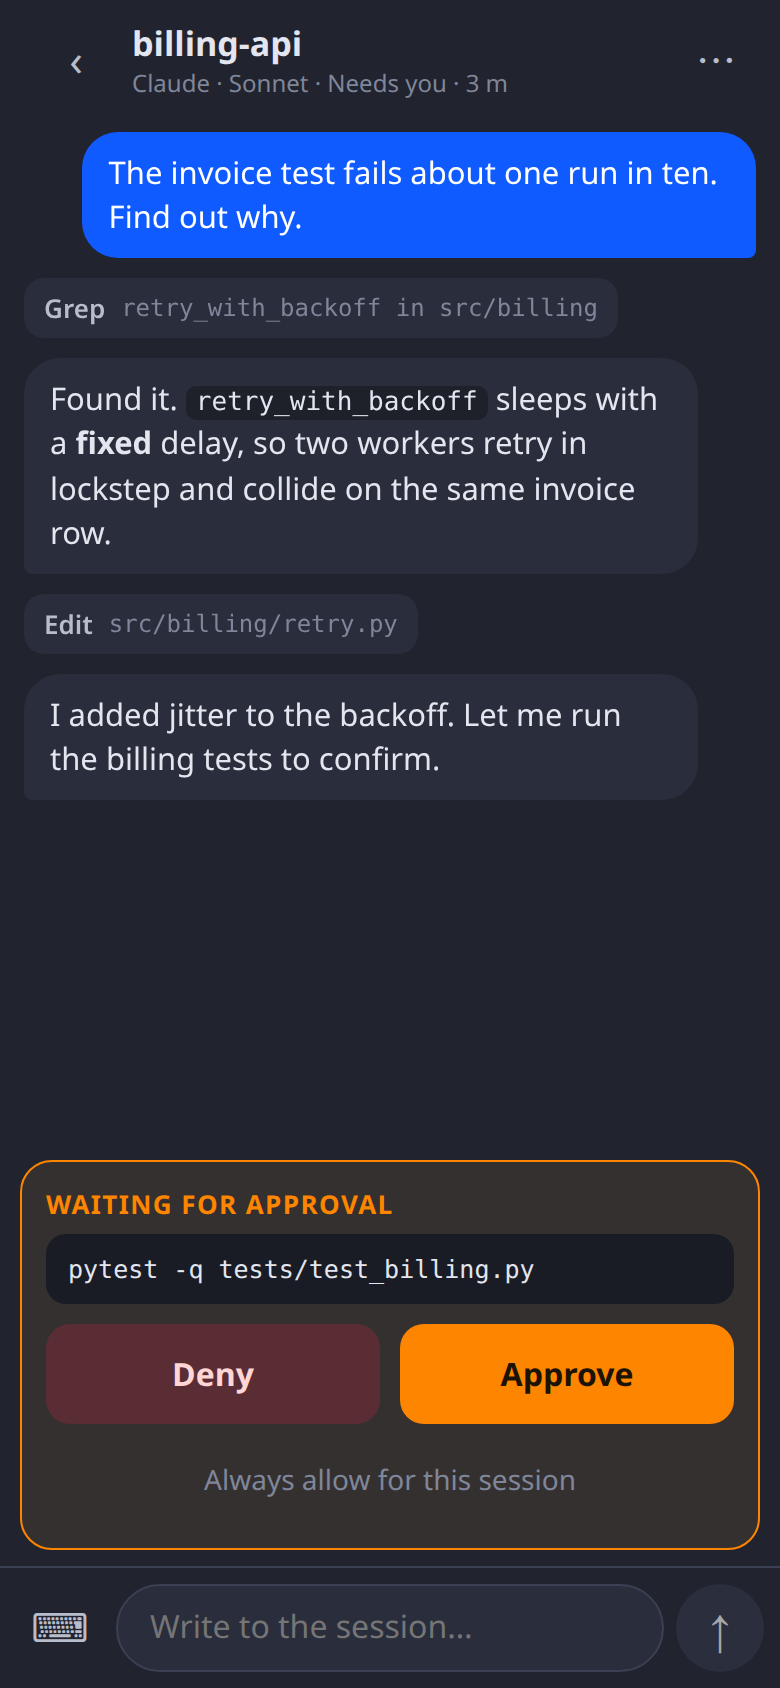
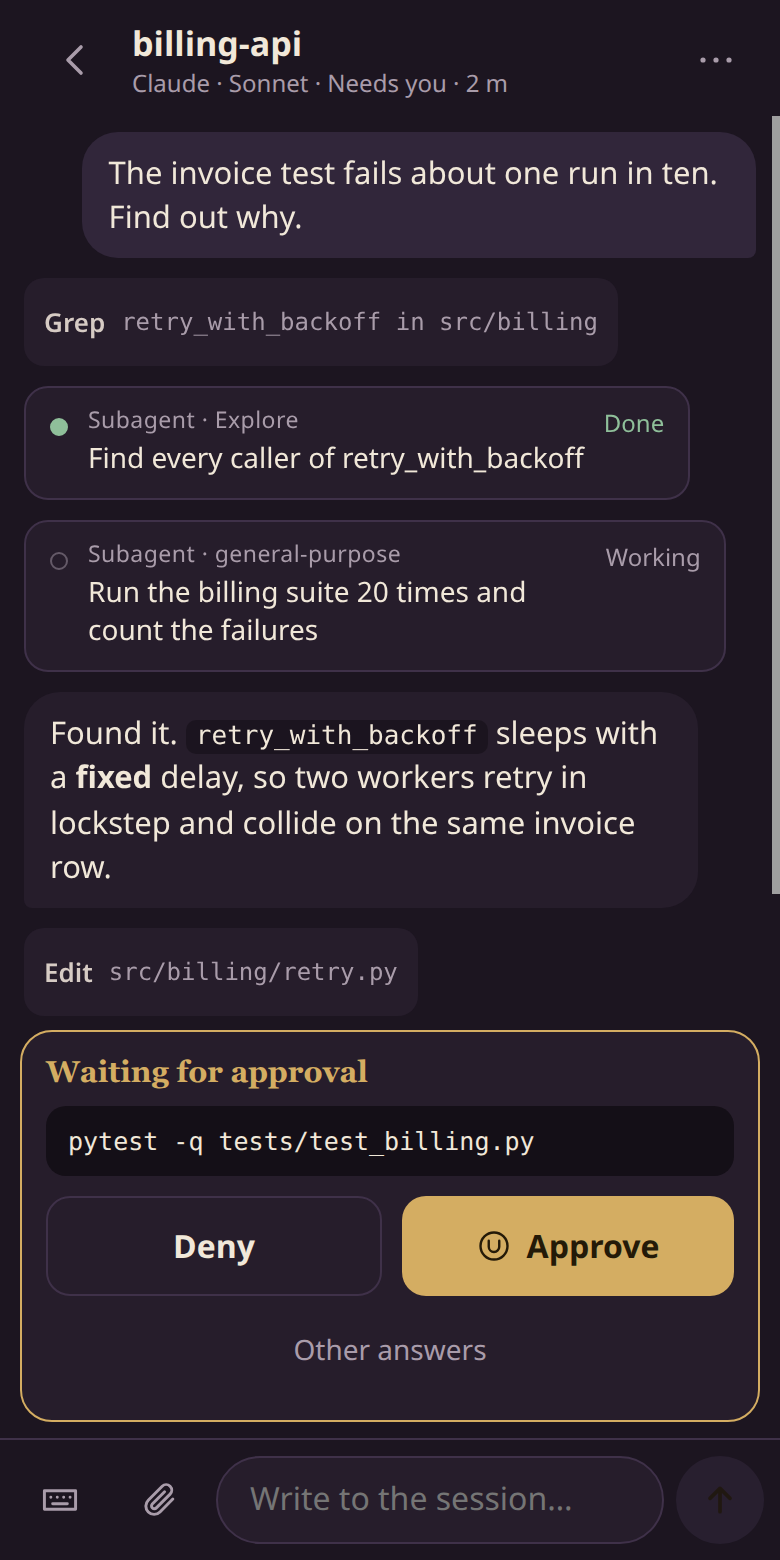
Retake the screenshots and the demo GIF in the new look

diff --git a/tools/shots.py b/tools/shots.py
@@ -1,0 +1,188 @@
+"""Retake the README screenshots and the demo GIF from the scripted demo.
+
+    python tools/shots.py            # docs/screenshots/{en,tr}/*.png and docs/demo.gif
+
+Needs Chrome or Chromium, the dev requirements, and ffmpeg for the GIF.
+"""
+import base64
+import json
+import shutil
+import subprocess
+import sys
+import tempfile
+import threading
+import time
+from functools import partial
+from http.server import SimpleHTTPRequestHandler, ThreadingHTTPServer
+from pathlib import Path
+
+ROOT = Path(__file__).resolve().parent.parent
+sys.path.insert(0, str(ROOT))
+
+from test_web import APPROVE, open_chrome  # noqa: E402
+from tools import demo_server as demo  # noqa: E402
+
+DOCS = ROOT / "docs"
+WIDTH, HEIGHT = 390, 780
+FPS = 10
+TAP = """(() => {
+  const el = document.querySelector(%s), r = el.getBoundingClientRect(), dot = document.createElement('i');
+  dot.style.cssText = `position:fixed;z-index:99;left:${r.left + r.width / 2 - 17}px;top:${r.top + r.height / 2 - 17}px;width:34px;height:34px;border-radius:50%%;`
+    + 'background:rgba(255,255,255,.28);box-shadow:0 0 0 1.5px rgba(255,255,255,.6),0 0 0 3px rgba(0,0,0,.25);pointer-events:none;transition:opacity .35s .25s';
+  document.body.append(dot);
+  requestAnimationFrame(() => { dot.style.opacity = 0; });
+  setTimeout(() => dot.remove(), 700);
+})()"""
+
+
+class Quiet(SimpleHTTPRequestHandler):
+    def log_message(self, *args):
+        pass
+
+
+class Phone:
+    def __init__(self, chrome, url):
+        self.chrome, self.url, self.frames = chrome, url, None
+
+    def start(self, lang, speed, scheme="dark", scale=2):
+        c = self.chrome
+        c.cdp("Emulation.setDeviceMetricsOverride", width=WIDTH, height=HEIGHT, deviceScaleFactor=scale, mobile=True)
+        c.cdp("Emulation.setEmulatedMedia", features=[{"name": "prefers-color-scheme", "value": scheme}])
+        c.cdp("Page.navigate", url=self.url)
+        c.wait("document.querySelectorAll('.card').length === 6")
+        c.js(f"localStorage.setItem('lang', {json.dumps(lang)})")
+        c.cdp("Page.navigate", url=f"{self.url}?speed={speed}&{lang}{scheme}{scale}")
+        c.wait("document.querySelectorAll('.card').length === 6")
+        self.hold(0.6)
+
+    def png(self):
+        return base64.b64decode(self.chrome.cdp("Page.captureScreenshot", format="png")["data"])
+
+    def hold(self, seconds):
+        """Let time pass. While recording, every tenth of a second becomes a frame; headless Chrome only advances CSS animations when it draws."""
+        end = time.monotonic() + seconds
+        while True:
+            tick = time.monotonic()
+            frame = self.png()
+            if self.frames is not None:
+                (self.frames / f"{len(list(self.frames.iterdir())):05d}.png").write_bytes(frame)
+            if tick + 1 / FPS >= end:
+                break
+            time.sleep(max(0, tick + 1 / FPS - time.monotonic()))
+
+    def until(self, expression, timeout=30):
+        end = time.monotonic() + timeout
+        while not self.chrome.js(expression):
+            assert time.monotonic() < end, expression
+            self.hold(0.1)
+
+    def tap(self, selector):
+        self.until(f"document.querySelector({json.dumps(selector)}) !== null")
+        if self.frames is not None:
+            self.chrome.js(TAP % json.dumps(selector))
+            self.hold(0.35)
+        self.chrome.click(selector)
+
+    def shot(self, path, toast=False):
+        if not toast:
+            self.until("document.querySelector('#toasts').children.length === 0")  # a passing toast covers the title
+        self.hold(0.5)
+        path.parent.mkdir(parents=True, exist_ok=True)
+        path.write_bytes(self.png())
+        print(path.relative_to(ROOT))
+
+    def open(self, pane):
+        self.tap(f".card[data-key={json.dumps(pane)}] .card-open")
+        self.until(f"location.hash === {json.dumps('#/s/' + pane)} && document.querySelector('#messages .msg') !== null")
+
+    def home(self):
+        self.tap("#back")
+        self.until("!document.querySelector('#home').hidden")
+
+
+def stills(phone, lang):
+    out = DOCS / "screenshots" / lang
+    phone.start(lang, speed=1)
+    phone.shot(out / "home.png")
+    phone.open("d1:p1")
+    phone.shot(out / "approval.png")
+    phone.tap("#sMenu")
+    phone.tap("#sheet [data-d]")
+    phone.until("document.querySelector('#sheet .diff') !== null")
+    phone.shot(out / "changes.png")
+    phone.tap("#sheet [data-close]")
+    phone.tap(APPROVE)
+    phone.until("location.hash === '#/s/d2:p1' && document.querySelector('#promptZone .two-seals') !== null")
+    phone.shot(out / "two-seals.png")
+    phone.tap(APPROVE)
+    phone.until("document.querySelector('#sheet [data-y]') !== null")
+    phone.shot(out / "second-seal.png")
+    phone.tap("#sheet [data-y]")
+    phone.until("document.querySelector('#receipt.ok') !== null && document.querySelector('#messages .hint') !== null")
+    phone.shot(out / "delivered.png")
+    phone.until("document.querySelector('#messages').textContent.includes('Pushed. CI is running')")
+    phone.home()
+    phone.until("document.querySelector('.card[data-key=\"d3:p1\"] [data-act=approve]') !== null")
+    phone.open("d3:p1")
+    phone.tap(APPROVE)
+    phone.until("document.querySelector('#toasts .err') !== null && document.querySelector('#promptZone .two-seals') !== null")
+    phone.shot(out / "refused.png", toast=True)
+    phone.until("document.querySelector('#toasts .err') === null")
+    phone.home()
+    phone.tap("#history")
+    phone.tap("#sheet [data-tab=decisions]")
+    phone.shot(out / "decisions.png")
+    phone.start(lang, speed=1, scheme="light")
+    phone.shot(out / "light.png")
+
+
+def gif(phone, work):
+    frames = work / "frames"
+    frames.mkdir()
+    phone.start("en", speed=1.6, scale=1)
+    phone.frames = frames
+    phone.hold(1.6)
+    phone.open("d1:p1")
+    phone.hold(1.8)
+    phone.tap(APPROVE)
+    phone.until("location.hash === '#/s/d2:p1' && document.querySelector('#promptZone .two-seals') !== null")
+    phone.hold(2.2)
+    phone.tap(APPROVE)
+    phone.until("document.querySelector('#sheet [data-y]') !== null")
+    phone.hold(1.8)
+    phone.tap("#sheet [data-y]")
+    phone.until("document.querySelector('#messages').textContent.includes('Pushed. CI is running')")
+    phone.hold(1.6)
+    phone.home()
+    phone.until("document.querySelector('.card[data-key=\"d3:p1\"] [data-act=approve]') !== null")
+    phone.hold(1.2)
+    phone.open("d3:p1")
+    phone.hold(1.6)
+    phone.tap(APPROVE)
+    phone.until("document.querySelector('#toasts .err') !== null && document.querySelector('#promptZone .two-seals') !== null")
+    phone.hold(3.2)
+    phone.frames = None
+    palette = "split[a][b];[a]palettegen=max_colors=96:stats_mode=diff[p];[b][p]paletteuse=dither=none:diff_mode=rectangle"
+    subprocess.run(["ffmpeg", "-y", "-loglevel", "error", "-framerate", str(FPS), "-i", str(frames / "%05d.png"), "-vf", palette, str(DOCS / "demo.gif")], check=True)
+    print(f"docs/demo.gif  {len(list(frames.iterdir())) / FPS:.0f}s  {(DOCS / 'demo.gif').stat().st_size // 1024} KB")
+
+
+def main():
+    with tempfile.TemporaryDirectory() as tmp:
+        work = Path(tmp)
+        demo.build(work / "site")
+        server = ThreadingHTTPServer(("127.0.0.1", 0), partial(Quiet, directory=str(work / "site")))
+        threading.Thread(target=server.serve_forever, daemon=True).start()
+        try:
+            with open_chrome(work) as chrome:
+                phone = Phone(chrome, f"http://127.0.0.1:{server.server_port}/")
+                for lang in ("en", "tr"):
+                    stills(phone, lang)
+                if shutil.which("ffmpeg"):
+                    gif(phone, work)
+        finally:
+            server.shutdown()
+
+
+if __name__ == "__main__":
+    main()

diff --git a/README.md b/README.md
@@ -6,7 +6,7 @@
 
 <p align="center"><a href="https://github.com/mtbagatur/ulak/actions/workflows/test.yml"><img src="https://github.com/mtbagatur/ulak/actions/workflows/test.yml/badge.svg" alt="Tests"></a></p>
 
-![Ulak demo: sessions, chat and approval on a phone](docs/demo.gif)
+![Ulak demo: an approval, a push that needs two seals, and an answer refused because the question changed](docs/demo.gif)
 
 <p align="center">
   <strong>Your coding agents, in your pocket.</strong><br>
@@ -17,11 +17,16 @@ Ulak is a small web app (PWA) that turns your [Herdr](https://herdr.dev) agent p
 
 <p align="center">
   <img src="docs/screenshots/en/home.png" alt="Home: sessions grouped by what needs you, with usage limits on top" width="195">
-  <img src="docs/screenshots/en/approval.png" alt="A session with an approval waiting" width="195">
-  <img src="docs/screenshots/en/destructive.png" alt="A destructive command flagged for a second confirmation" width="195">
-  <img src="docs/screenshots/en/limits.png" alt="Usage limits sheet" width="195">
+  <img src="docs/screenshots/en/approval.png" alt="A session with an approval waiting under the conversation" width="195">
+  <img src="docs/screenshots/en/second-seal.png" alt="A git push asking for a second confirmation with the full command" width="195">
+  <img src="docs/screenshots/en/delivered.png" alt="The line above the composer: approved, on its way, agent received it" width="195">
   <br>
-  <sub>Demo data from <code>tools/demo_server.py</code>. English and Turkish are built in; the app follows your phone's language and has a TR/EN switch. <a href="docs/screenshots/tr">Turkish screenshots</a>.</sub>
+  <img src="docs/screenshots/en/refused.png" alt="An approval refused because the question changed" width="195">
+  <img src="docs/screenshots/en/decisions.png" alt="The decision log: who answered what, and when the agent got it" width="195">
+  <img src="docs/screenshots/en/changes.png" alt="Read-only view of the uncommitted changes in a session's folder" width="195">
+  <img src="docs/screenshots/en/light.png" alt="The light theme" width="195">
+  <br>
+  <sub>Demo data, retaken with <code>python tools/shots.py</code>. English and Turkish are built in; the app follows your phone's language and has a TR/EN switch. <a href="docs/screenshots/tr">Turkish screenshots</a>.</sub>
 </p>
 
 ## What it does
